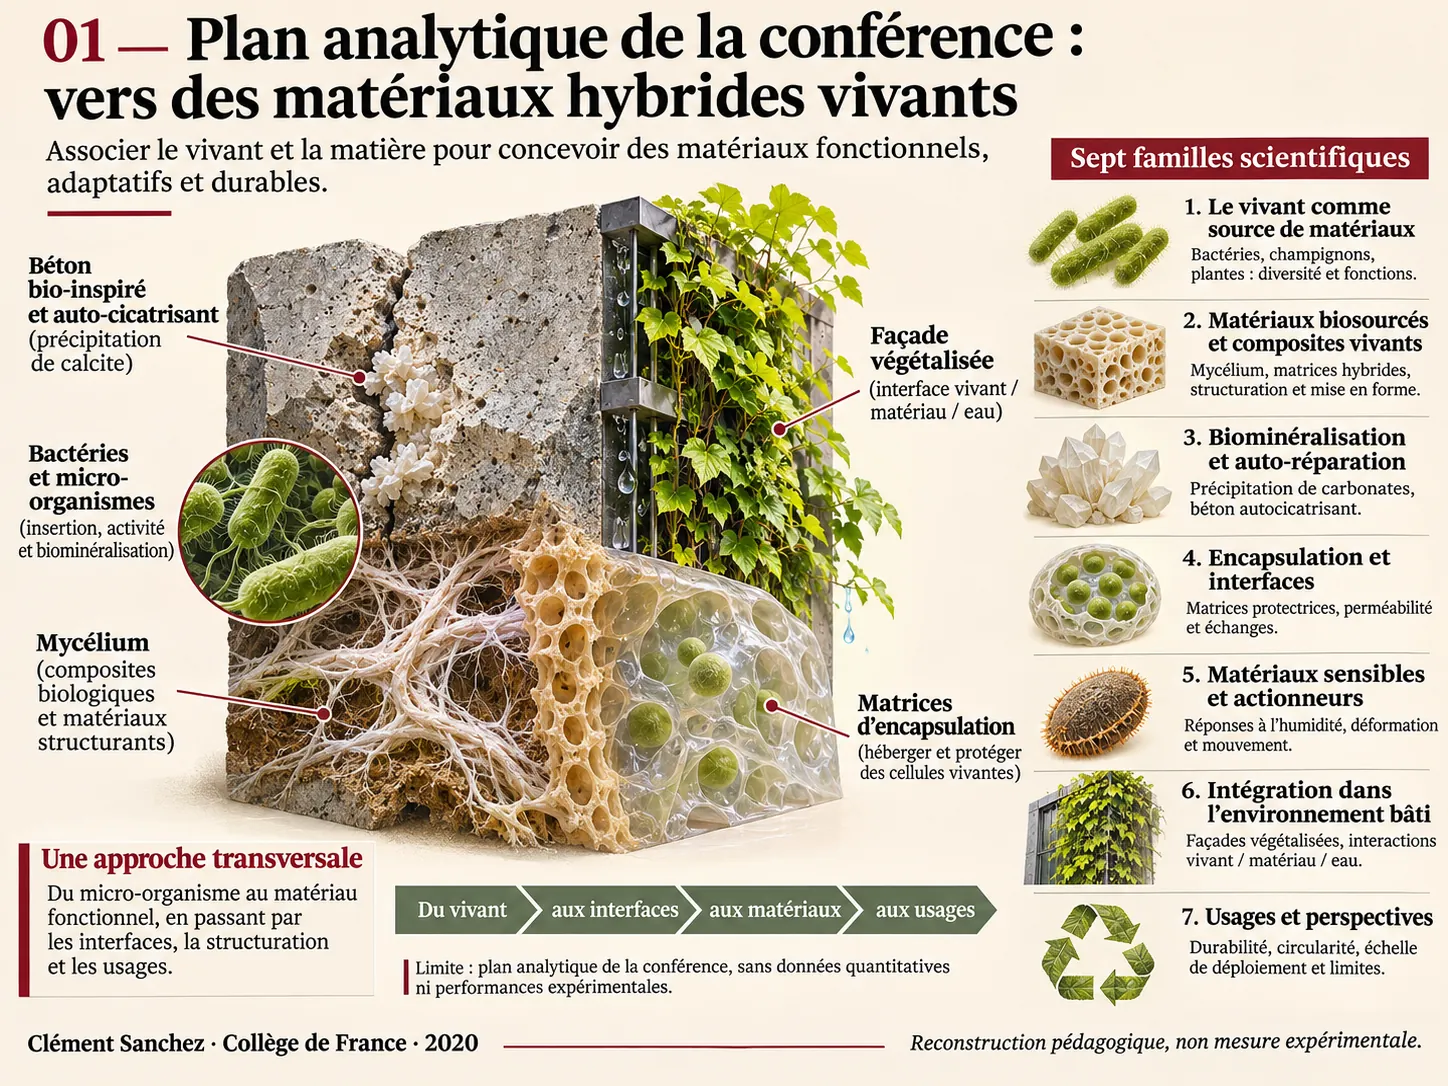
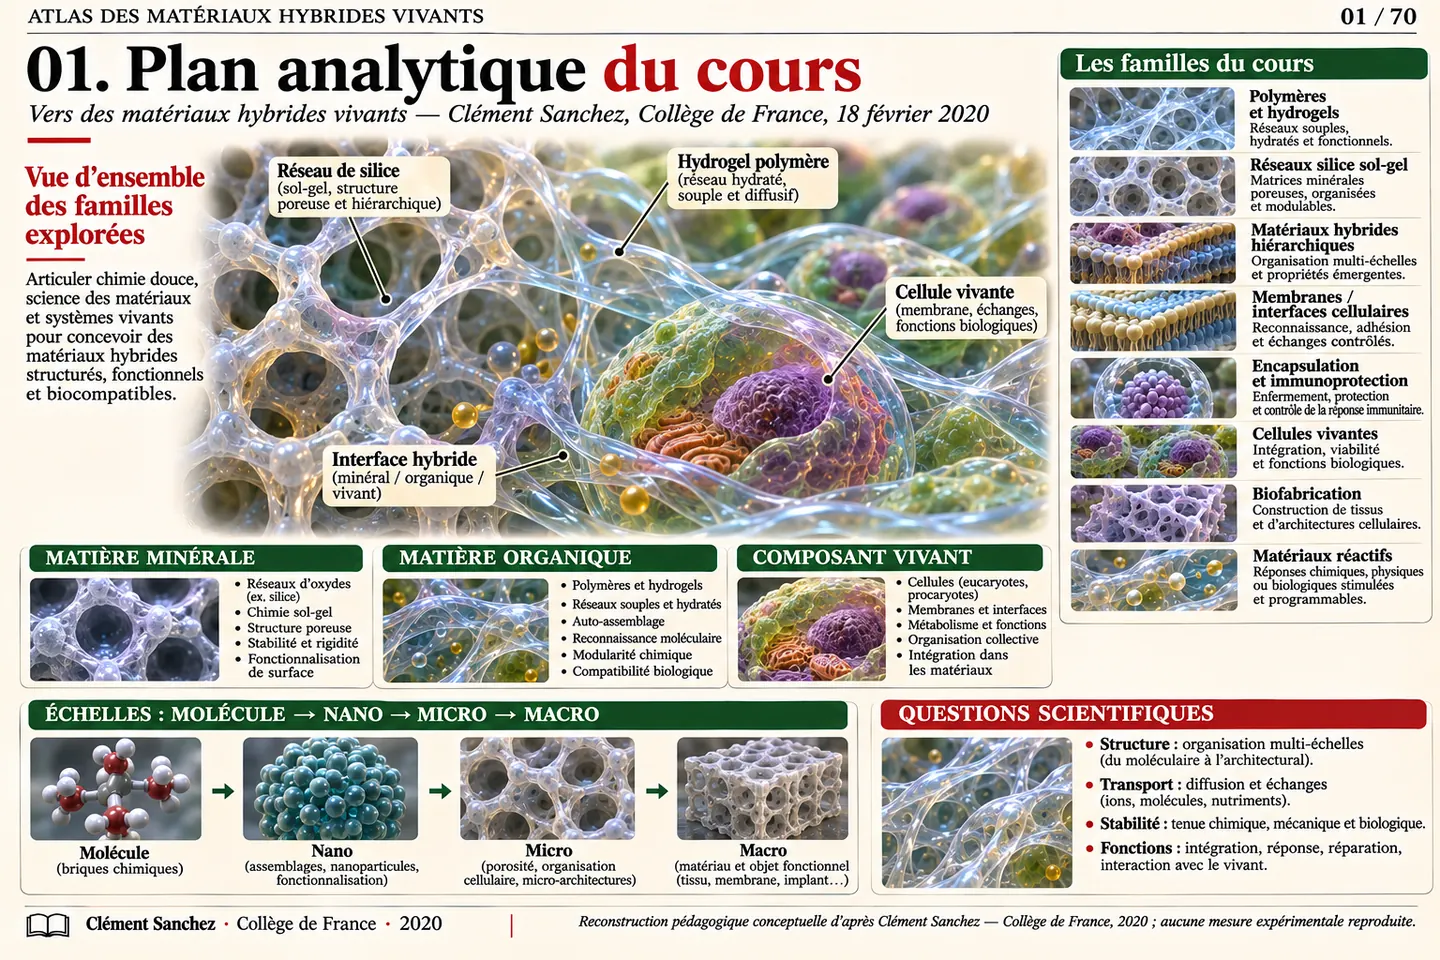
art(atlas): redraw plate 01 with exact title and premium cream scientific layout

diff --git a/chimie-douce/src/redesigned-plates.js b/chimie-douce/src/redesigned-plates.js
@@ -1,17 +1,17 @@
 /* Non-interactive educational reconstructions. Original source slides are always retained. */
 const SOURCE='Clément Sanchez — Collège de France, 18 février 2020';
-const IDS=Object.freeze([7,11,12,13,14,15,16,17,18,19,20,21,22,23,24,25,26,27,28,29,30,31,32,33,34,35,36,37,38,39,40,41,42,43,44,45,46,51,52,53,54,55,56,57,58,59,60,61,62]);
+const IDS=Object.freeze([1,7,11,12,13,14,15,16,17,18,19,20,21,22,23,24,25,26,27,28,29,30,31,32,33,34,35,36,37,38,39,40,41,42,43,44,45,46,51,52,53,54,55,56,57,58,59,60,61,62]);
 const LEGACY=Object.fromEntries(IDS.map(id=>[
   id,Object.freeze({
     src:new URL('../assets/atlas-redessine/planche-'+String(id).padStart(2,'0')+'.webp',import.meta.url).href,
     kind:'reconstruction',
-    defaultOriginal:[1,7,37,39,43,44,45,46].includes(id),
+    defaultOriginal:[7,37,39,43,44,45,46].includes(id),
     source:SOURCE,
     caution:id===60?'Démonstrateur de mise en forme 3D reconstitué : une structure poreuse imprimée ne prouve ni viabilité biologique, ni capacité de transport mesurée, ni compatibilité pour implantation médicale.':id===61?'Reconstruction conceptuelle : anode biologique, circuit d’électrons, transport ionique et réduction cathodique ne démontrent ni puissance ni rendement mesurés. Les microorganismes et matériaux illustrés sont indicatifs.':id===62?'Réacteur microbien sur effluent réel, reconstruction non expérimentale : débit, DCO en entrée/sortie, tension sous charge, courant et puissance normalisée doivent être mesurés pour conclure sur les performances. Une tension seule ne prouve aucune efficacité de dépollution.':id===59?'Reconstruction de bio-impression inspirée de Schaffner et al. (Science Advances, 2017) : Pseudomonas putida et Acetobacter xylinum correspondent à des fonctions distinctes. La géométrie imprimée ne prouve ni la survie après fabrication, ni la dégradation de phénols, ni la synthèse de biocellulose sans témoins expérimentaux.':id===52?'Reconstruction conceptuelle d\'une supracellule modulaire : protection, imagerie, catalyse et adressage sont des fonctions proposées à tester séparément. L\'association des particules ne prouve ni une activité simultanée, ni la viabilité de la cellule.':id===57?'Reconstruction de quatre procédés de mise en forme : extrusion, moulage, bio-impression et dépôt. La diapositive originale présente également aérosol, trempage-retrait, pulvérisation, procédés électroassistés et divers produits sol–gel. Ni la viabilité ni les performances ne sont mesurées ici.':id===58?'Reconstruction de la production de cellulose extracellulaire par bactéries et de ses usages. Réseau fibrillaire, souplesse, perméabilité et performances dépendent de la souche, du milieu, de la purification, de l’hydratation et de la mise en forme ; aucune propriété quantitative n’est déduite de l’illustration.':id===55?'Reconstruction conceptuelle de la synthèse de MOFs dans la plante : transport et nucléation localisée sont des mécanismes à vérifier, et les structures dessinées ne sont ni une cartographie chimique ni des mesures in vivo.':id===56?'Localisation des phases MOF figurée comme hypothèse dans les tissus, les parois et les compartiments végétaux : un signal de microscopie ne suffit pas à identifier un cristal, sa position subcellulaire ou sa distribution uniforme.':id===51?'Coupe anatomique et réponse force–déplacement conceptuelles ; le module apparent dépend de la géométrie de pointe, du chargement et du modèle de contact. La rigidité ne démontre pas la viabilité.':id===53?'Cryopréservation de globules rouges avec nanoparticules MOF de zirconium : cette image ne démontre ni la vitrification ni un rendement de récupération. Température et mécanismes repris conceptuellement du cours ; consulter les données expérimentales originales.':id===54?'Schéma pédagogique des MOFs de zirconium, de l’hémolyse et de la récupération après décongélation : les graphiques sont intentionnellement vides et ne reproduisent aucune valeur. Consulter la diapositive et la publication d’origine pour toute comparaison quantitative.':id===42?'Transfert photoélectronique et synthèse d’acétate représentés conceptuellement : cette image ne constitue pas une mesure de flux ni une preuve directe du mécanisme.':id===43?'ATTENTION — Courbes générées à titre illustratif : leurs coordonnées, barres d’erreur et écarts ne correspondent à AUCUN jeu de données expérimentales vérifié. Pour les résultats réels, consulter la diapositive originale et la publication citée.':id===44?'Couche et épaisseur illustratives : les valeurs nanométriques dessinées, l’imagerie et la morphologie ne sont pas des mesures originales.':id===45?'La protection contre l’oxygène ne peut être affirmée pour toute coque MOF ; perméabilité à O₂, viabilité et maintien de la fonction requièrent des témoins expérimentaux.':id===46?'ATTENTION — Graphiques entièrement illustratifs : courbes, erreurs et observations ne sont PAS des résultats expérimentaux. La comparaison doit être réalisée à partir des figures sources et témoins publiés.':id===37?'Image entièrement illustrative : les barres d’échelle dessinées ne correspondent pas à des mesures de microscopie.':id===39?'Reconstruction d’une enzyme confinée dans un MOF : elle ne démontre pas la fonctionnalisation de coque enzyme–MOF présentée dans la source.':id===41?'Couplage CdS–bactérie présenté comme principe : ni transfert électronique ni production d’acétate ne sont démontrés par ce dessin.':'Illustration conceptuelle reconstruite ; ni micrographie, ni données expérimentales originales.'
   })
 ]));
 /* Scientific vector edition, drawn on cream stock. All original slides remain available. */
-const VECTOR_IDS=Object.freeze([1,2,3,4,5,6,8,9,10,47,48,49,50,63,64,65,66,67,68,69,70]);
+const VECTOR_IDS=Object.freeze([2,3,4,5,6,8,9,10,47,48,49,50,63,64,65,66,67,68,69,70]);
 const VECTOR_NOTES=Object.freeze({
  1:'Carte du cours : illustration conceptuelle sans hiérarchie expérimentale.',
  2:'Bactéries, archées et eucaryotes sont distincts ; la diversité biologique est schématisée.',
@@ -66,5 +66,5 @@ export const redesignedCount=()=>new Set([...IDS,...VECTOR_IDS,...Object.keys(RE
 /* Presence does not mean art-direction approval: precise progress categories. */
 export const detailedPlateCount=()=>new Set([...IDS,...Object.keys(REVIEWED).map(Number)]).size;
 export const schematicPlateCount=()=>VECTOR_IDS.filter(id=>!REVIEWED[id]).length;
-export const editorialPlateStatus=id=>([1,7].includes(Number(id))?'titre intégré à corriger':REVIEWED[id]?'illustration détaillée disponible':VECTOR_IDS.includes(Number(id))?'reconstruction schématique à reprendre':'illustration détaillée disponible');
+export const editorialPlateStatus=id=>([7].includes(Number(id))?'titre intégré à corriger':REVIEWED[id]?'illustration détaillée disponible':VECTOR_IDS.includes(Number(id))?'reconstruction schématique à reprendre':'illustration détaillée disponible');
 export const redesignedIds=()=>[...new Set([...IDS,...VECTOR_IDS,...Object.keys(REVIEWED).map(Number)])].sort((a,b)=>a-b);

diff --git a/chimie-douce/planches/REGISTRE_REFONTE_GRAPHIQUE.md b/chimie-douce/planches/REGISTRE_REFONTE_GRAPHIQUE.md
@@ -2,12 +2,11 @@
 
 **Source primaire :** Clément Sanchez, *Vers des matériaux hybrides vivants*, Collège de France, 18 février 2020.
 
-**État au 22 novembre 2026 :** 49/70 illustrations détaillées présentes sous réserve de relecture ; **21/70 SVG provisoires**. Le registre comporte **22 numéros à reprendre ou corriger**, dont la planche 07 au titre intégré erroné. La présence d’une image ne constitue pas sa validation scientifique.
+**État au 22 novembre 2026 :** 50/70 illustrations détaillées présentes sous réserve de relecture, dont la planche 01 nouvellement refaite ; 20 SVG provisoires encore à remplacer. La planche 07 reste à corriger pour son titre intégré.
 
-## Planches à reprendre ou corriger (22)
+## Planches restant à reprendre ou à corriger (21)
 | N° | Titre exact et immuable du catalogue | Statut |
 |---:|---|---|
-| 01 | Plan analytique du cours | Titre intégré dans l'image à corriger |
 | 02 | Le vivant et la diversité cellulaire | Schéma provisoire : illustration éditoriale à refaire |
 | 03 | Barrières cellulaires et interfaces | Schéma provisoire : illustration éditoriale à refaire |
 | 04 | Façades végétalisées | Schéma provisoire : illustration éditoriale à refaire |
